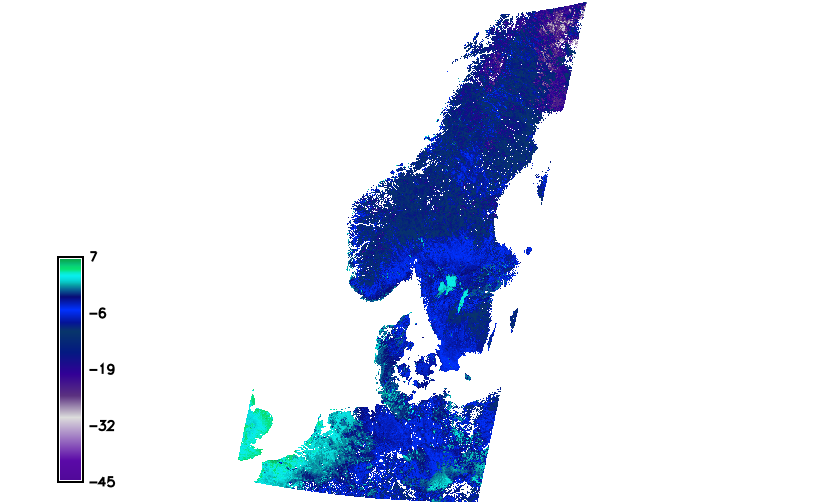
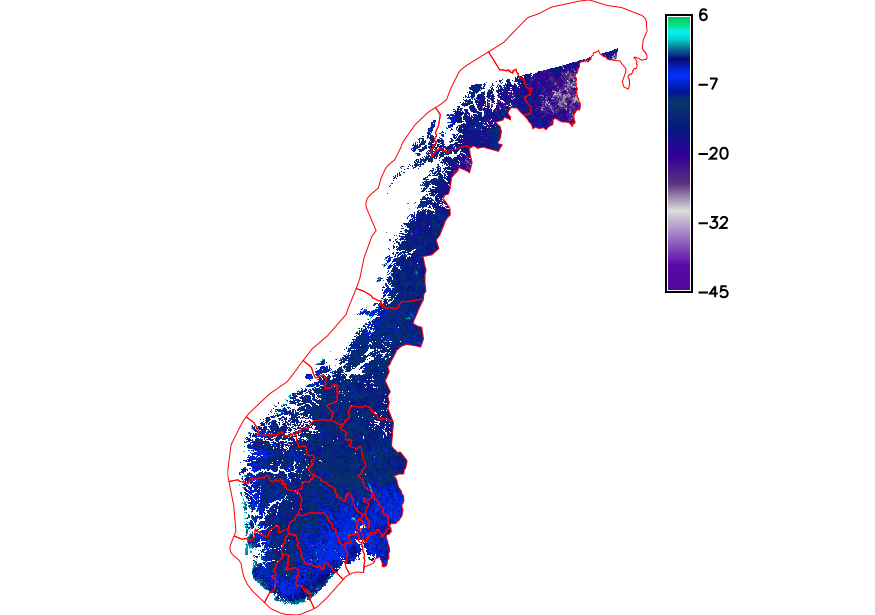
unit 20: mask applied

Changed region(s): [[0.2436, 0.0, 0.8526, 1.0], [0.0609, 0.508, 0.1523, 0.9861], [0.3959, 0.3287, 0.4263, 0.3586]]

diff --git a/units/20.rst b/units/20.rst
@@ -43,8 +43,9 @@ GRASS MODIS addon consists of two modules:
 * :grasscmdaddons:`i.modis.download`
 * :grasscmdaddons:`i.modis.import`
 
-Let's download desired tiles (h18v02 and h18v03) for year 2017. We are
-interested about LST products (both Aqua and Terra satellites).
+Let's download desired tiles (h18v02 and h18v03) for year 2017 by
+:grasscmdaddons:`i.modis.download`. We are interested about LST
+products (both Aqua and Terra satellites).
 
 .. note:: Already downloaded MODIS can be found in sample dataset in
    :file:`modis/h18v02_03` folder. Or alternatively you can use GRASS
@@ -55,7 +56,7 @@ interested about LST products (both Aqua and Terra satellites).
           
 .. code-block:: bash
 
-   i.modis.download settings=settings.txt folder=geodata/modis \
+   i.modis.download settings=modis.txt folder=geodata/modis/h18v02_03 \
    tiles=h18v02,h18v03 product=lst_aqua_eight_1000,lst_terra_eight_1000 \
    startday=2017-01-01 endday=2017-12-31
 
@@ -69,16 +70,17 @@ interested about LST products (both Aqua and Terra satellites).
    `pyModis documentation
    <http://www.pymodis.org/info.html#user-and-password>`__.
 
-Data will be imported including reprojection into target location.
+Data are imported by :grasscmdaddons:`i.modis.import` including
+reprojection into target location.
 
 .. _modis-import:
 
 .. code-block:: bash
 
-   i.modis.import -mw files=geodata/modis/listfileMOD11A2.006.txt \
+   i.modis.import -mw files=geodata/modis/h18v02_03/listfileMOD11A2.006.txt \
    spectral='( 1 0 0 0 1 0 0 0 0 0 0 0 )' outfile=geodata/modis/tlist-mod.txt
 
-   i.modis.import -mw files=geodata/modis/listfileMYD11A2.006.txt \
+   i.modis.import -mw files=geodata/modis/h18v02_03/listfileMYD11A2.006.txt \
    spectral='( 1 0 0 0 1 0 0 0 0 0 0 0 )' outfile=geodata/modis/tlist-myd.txt
 
 If ``-m`` flag is given mosaics from input tiles is created
@@ -90,7 +92,7 @@ automatically, see :numref:`modis-mosaics`.
 .. _modis-mosaics:
 
 .. figure:: ../images/units/20/modis-mosaics.png
-   :class: middle
+   :class: large
         
    Mosaics created from h18v02 and h18v03 tiles.
 
@@ -147,23 +149,22 @@ Example (replace :map:`tile` with real map name):
    
 .. code-block:: bash
                 
-   r.mapcalc expression="tile_c = if(tile != 0, tile * 0.02 - 273.15, null())"
+   r.mapcalc expression="MOD11A2.A2017001_mosaic_LST_Day_1km_celsius = \
+   if(MOD11A2.A2017001_mosaic_LST_Day_1km != 0, MOD11A2.A2017001_mosaic_LST_Day_1km * 0.02 - 273.15, null())"
 
 Let's check range values of new LST data
 
 .. code-block:: bash
 
-   r.info -r map=MOD11A2.A2017001_mosaic_LST_Day_1km_c
+   r.info -r map=MOD11A2.A2017001_mosaic_LST_Day_1km_celsius
 
 ::
 
    min=-45.09
-   max=7.15000000000003
+   max=6.05000000000001
 
 .. figure:: ../images/units/20/lst-c.png
-   :class: middle
+   :class: large
         
    LST reconstruction for Norway in Celsius scale (color table
    ``celsius`` applied).
-
-.. todo:: Fig. above: Norway should be clipped. Mask is missing.
